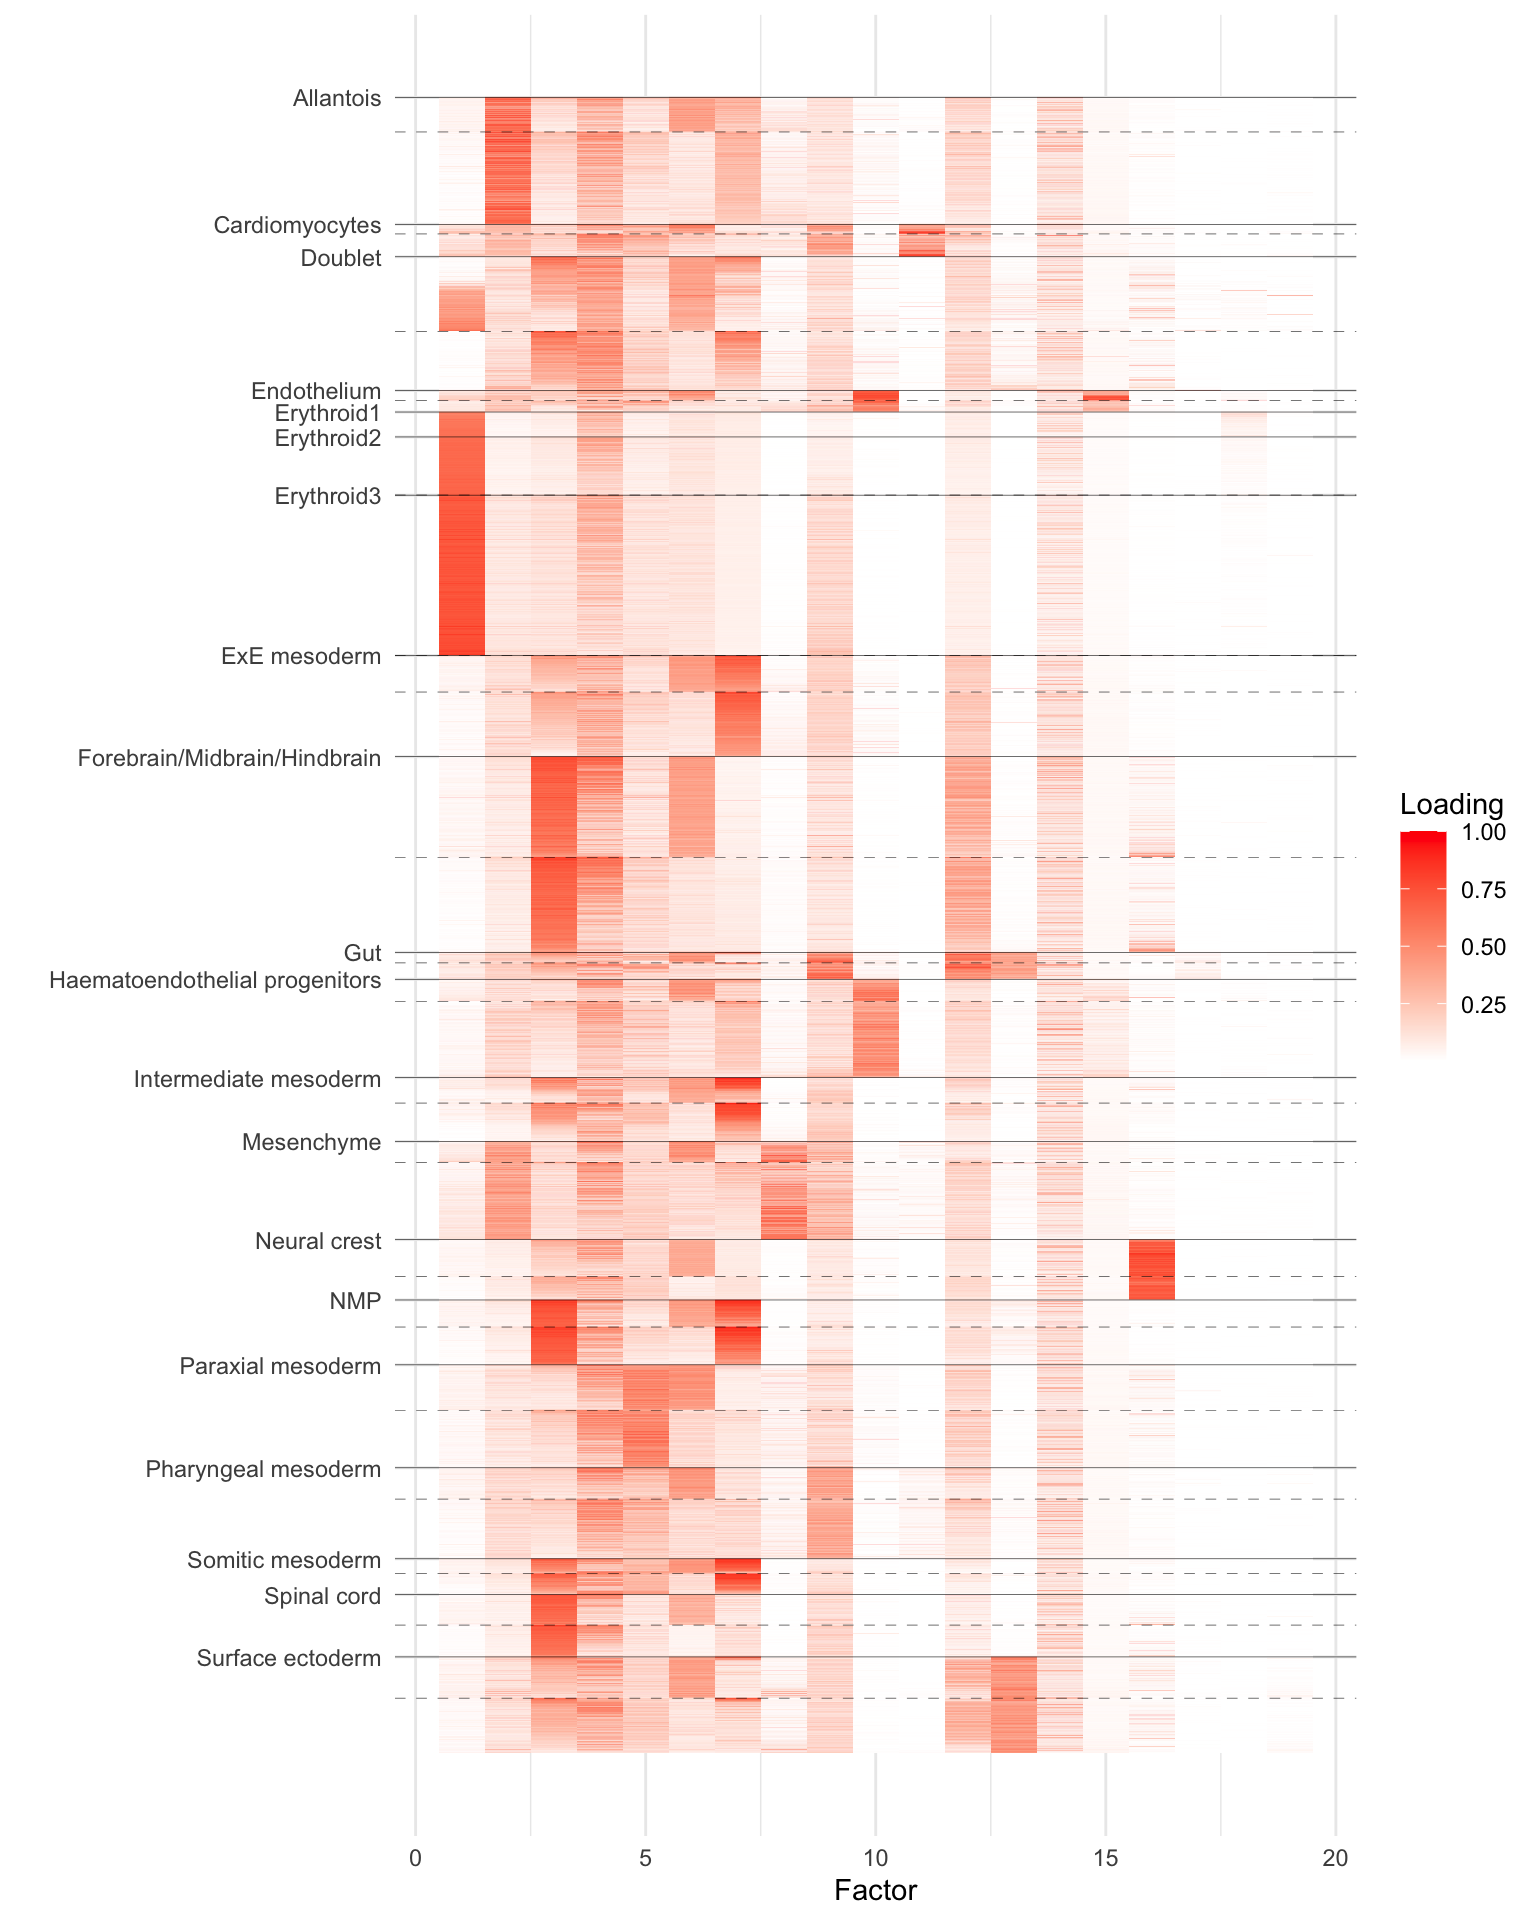
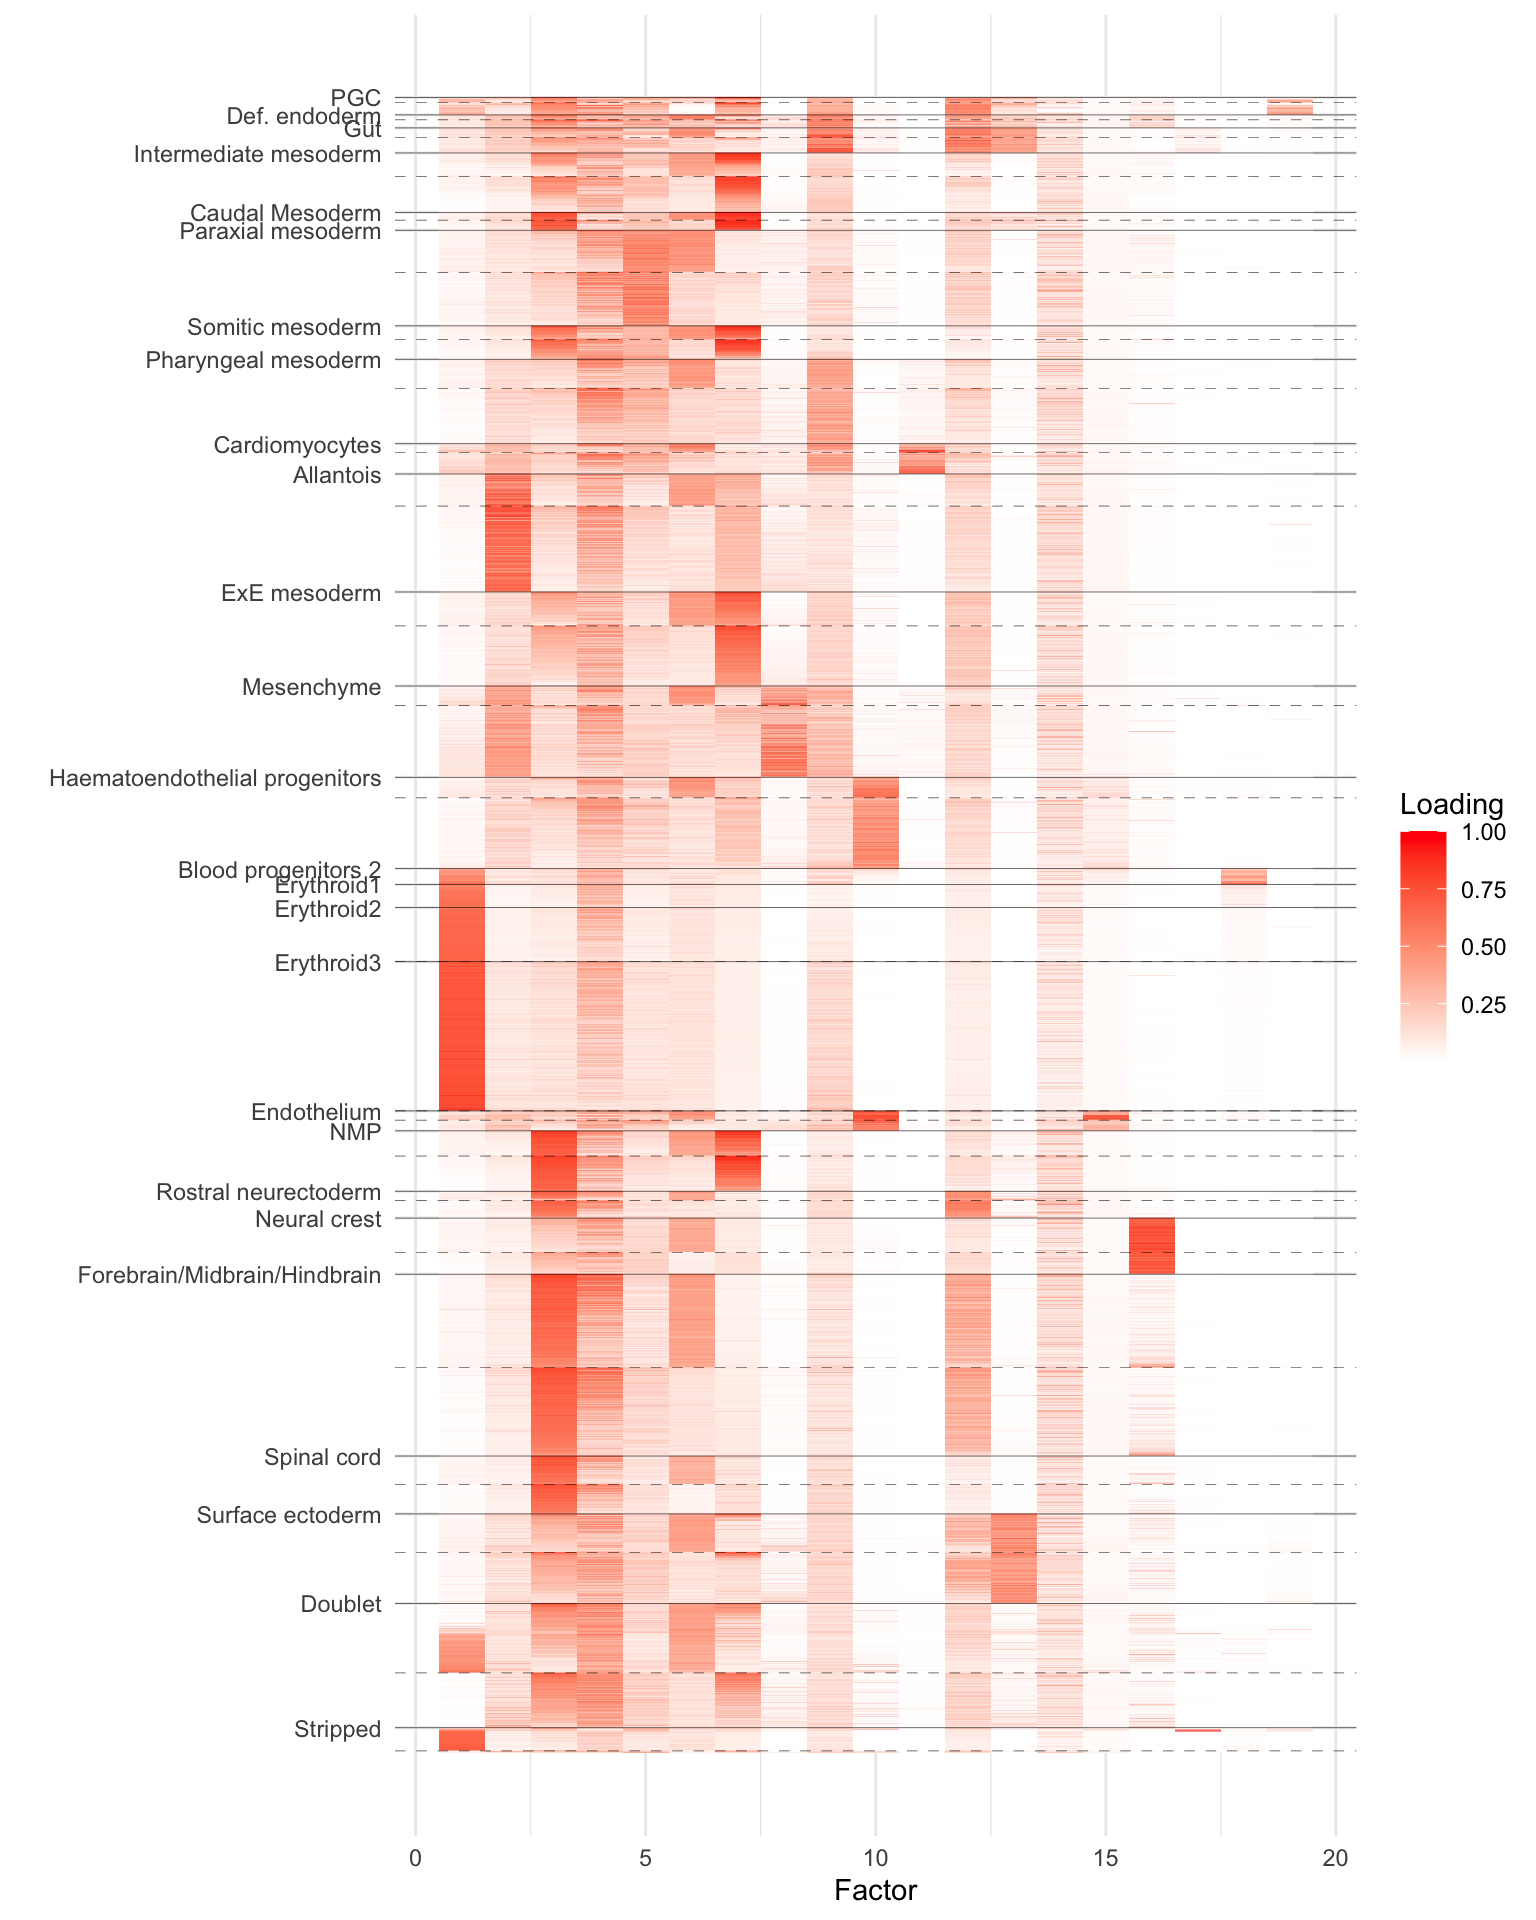
Build site.

diff --git a/docs/pijuan_snn.html b/docs/pijuan_snn.html
@@ -316,7 +316,7 @@ $(document).ready(function () {
 <div class="tab-content">
 <div id="summary" class="tab-pane fade in active">
 <p>
-<strong>Last updated:</strong> 2022-04-13
+<strong>Last updated:</strong> 2022-04-15
 </p>
 <p>
 <strong>Checks:</strong> <span class="glyphicon glyphicon-ok text-success" aria-hidden="true"></span> 7 <span class="glyphicon glyphicon-exclamation-sign text-danger" aria-hidden="true"></span> 0
@@ -407,16 +407,16 @@ This reproducible <a href="http://rmarkdown.rstudio.com">R Markdown</a> analysis
 <div class="panel panel-default">
 <div class="panel-heading">
 <p class="panel-title">
-<a data-toggle="collapse" data-parent="#workflowr-checks" href="#strongRepositoryversionstrongahrefhttpsgithubcomwillwerscheidscFLASHtree87b8b4ddf2d43f78f96071c93fdcddb70c013c21targetblank87b8b4da"> <span class="glyphicon glyphicon-ok text-success" aria-hidden="true"></span> <strong>Repository version:</strong> <a href="https://github.com/willwerscheid/scFLASH/tree/87b8b4ddf2d43f78f96071c93fdcddb70c013c21" target="_blank">87b8b4d</a> </a>
+<a data-toggle="collapse" data-parent="#workflowr-checks" href="#strongRepositoryversionstrongahrefhttpsgithubcomwillwerscheidscFLASHtree92dbc15d477c68f929846e5dca8ee8c42786691ftargetblank92dbc15a"> <span class="glyphicon glyphicon-ok text-success" aria-hidden="true"></span> <strong>Repository version:</strong> <a href="https://github.com/willwerscheid/scFLASH/tree/92dbc15d477c68f929846e5dca8ee8c42786691f" target="_blank">92dbc15</a> </a>
 </p>
 </div>
[2 lines of base64/hex data omitted]
 <div class="panel-body">
 <p>
 Great! You are using Git for version control. Tracking code development and connecting the code version to the results is critical for reproducibility.
 </p>
 <p>
-The results in this page were generated with repository version <a href="https://github.com/willwerscheid/scFLASH/tree/87b8b4ddf2d43f78f96071c93fdcddb70c013c21" target="_blank">87b8b4d</a>. See the <em>Past versions</em> tab to see a history of the changes made to the R Markdown and HTML files.
+The results in this page were generated with repository version <a href="https://github.com/willwerscheid/scFLASH/tree/92dbc15d477c68f929846e5dca8ee8c42786691f" target="_blank">92dbc15</a>. See the <em>Past versions</em> tab to see a history of the changes made to the R Markdown and HTML files.
 </p>
 <p>
 Note that you need to be careful to ensure that all relevant files for the analysis have been committed to Git prior to generating the results (you can use <code>wflow_publish</code> or <code>wflow_git_commit</code>). workflowr only checks the R Markdown file, but you know if there are other scripts or data files that it depends on. Below is the status of the Git repository when the results were generated:
@@ -506,6 +506,40 @@ Message
 </tr>
 </thead>
 <tbody>
+<tr>
+<td>
+Rmd
+</td>
+<td>
+<a href="https://github.com/willwerscheid/scFLASH/blob/92dbc15d477c68f929846e5dca8ee8c42786691f/analysis/pijuan_snn.Rmd" target="_blank">92dbc15</a>
+</td>
+<td>
+Jason Willwerscheid
+</td>
+<td>
+2022-04-15
+</td>
+<td>
+workflowr::wflow_publish(“analysis/pijuan_snn.Rmd”)
+</td>
+</tr>
+<tr>
+<td>
+html
+</td>
+<td>
+<a href="https://rawcdn.githack.com/willwerscheid/scFLASH/943435cd3167c881989a152162ff15f5735dfa81/docs/pijuan_snn.html" target="_blank">943435c</a>
+</td>
+<td>
+Jason Willwerscheid
+</td>
+<td>
+2022-04-13
+</td>
+<td>
+Build site.
+</td>
+</tr>
 <tr>
 <td>
 Rmd
@@ -604,10 +638,14 @@ do.heatmap &lt;- function(res) {
   FF &lt;- FF[, order(fl$pve[-1], decreasing = TRUE)]
   colnames(FF) &lt;- 1:ncol(FF) 
   
-  # Remove rare cell types for now.
+  res$celltype &lt;- factor(res$celltype, levels = sort(unique(res$celltype))[c(
+    5, 11, 30, 27, 8, 19, 21, 6, 28, 33, 31, 24, 23, 4, 1, 17, 22, 20, 2, 3, 12:14,
+    10, 26, 32, 7, 25, 18, 34, 36, 16, 15, 29, 37,
+    9, 35
+  )])
+  
   tib &lt;- as_tibble(FF) %&gt;%
-    mutate(Cell.type = res$celltype, Tomato = res$tomato) %&gt;%
-    filter(Cell.type %in% names(which(table(res$celltype) &gt; 500)))
+    mutate(Cell.type = res$celltype, Tomato = res$tomato) 
   
   pca_res &lt;- prcomp(
     as.matrix(tib %&gt;% select(-Cell.type, -Tomato)),
@@ -616,11 +654,33 @@ do.heatmap &lt;- function(res) {
     scale. = FALSE
   )$x[, 1]
   tib &lt;- tib %&gt;%
-    mutate(pca_res = pca_res) %&gt;%
-    arrange(Cell.type, Tomato, pca_res) %&gt;%
-    mutate(Cell.idx = row_number()) %&gt;%
-    select(-pca_res)
+    mutate(pca_res = pca_res) 
+
+  # Remove very rare cell types.
+  tib &lt;- tib %&gt;%
+      filter(Cell.type %in% names(which(table(res$celltype) &gt; 50)))
   
+  # Duplicate rows with rare cell types to make them easier to see in the visualization.
+  tib2 &lt;- tib %&gt;%
+    group_by(Cell.type) %&gt;%
+    filter(n() &lt; 500)
+  
+  tib3 &lt;- tib %&gt;%
+    group_by(Cell.type) %&gt;%
+    filter(n() &lt; 100)
+  
+  
+  tib &lt;- tib %&gt;%
+    bind_rows(tib2) %&gt;%
+    bind_rows(tib2) %&gt;%
+    bind_rows(tib3) %&gt;%
+    bind_rows(tib3) %&gt;%
+    bind_rows(tib3) %&gt;%
+    bind_rows(tib3) %&gt;%
+    arrange(Cell.type, Tomato, pca_res) %&gt;%
+    select(-pca_res) %&gt;%
+    mutate(Cell.idx = row_number())
+        
   cell_type &lt;- tib$Cell.type
   tomato &lt;- tib$Tomato
   
@@ -734,6 +794,43 @@ do.volcano.plot(res, k = 6, plt.title = &quot;Tomato factor&quot;)
 #&gt; ℹ Use `spec()` to retrieve the full column specification for this data.
 #&gt; ℹ Specify the column types or set `show_col_types = FALSE` to quiet this message.</code></pre>
 <p><img src="figure/pijuan_snn.Rmd/volcano.code-1.png" width="672" style="display: block; margin: auto;" /></p>
+<p>
+<button type="button" class="btn btn-default btn-xs btn-workflowr btn-workflowr-fig" data-toggle="collapse" data-target="#fig-volcano.code-1">
+Past versions of volcano.code-1.png
+</button>
+</p>
+<div id="fig-volcano.code-1" class="collapse">
+<div class="table-responsive">
+<table class="table table-condensed table-hover">
+<thead>
+<tr>
+<th>
+Version
+</th>
+<th>
+Author
+</th>
+<th>
+Date
+</th>
+</tr>
+</thead>
+<tbody>
+<tr>
+<td>
+<a href="https://github.com/willwerscheid/scFLASH/blob/943435cd3167c881989a152162ff15f5735dfa81/docs/figure/pijuan_snn.Rmd/volcano.code-1.png" target="_blank">943435c</a>
+</td>
+<td>
+Jason Willwerscheid
+</td>
+<td>
+2022-04-13
+</td>
+</tr>
+</tbody>
+</table>
+</div>
+</div>
 <br>
 <p>
 <button type="button" class="btn btn-default btn-workflowr btn-workflowr-sessioninfo" data-toggle="collapse" data-target="#workflowr-sessioninfo" style="display: block;">
